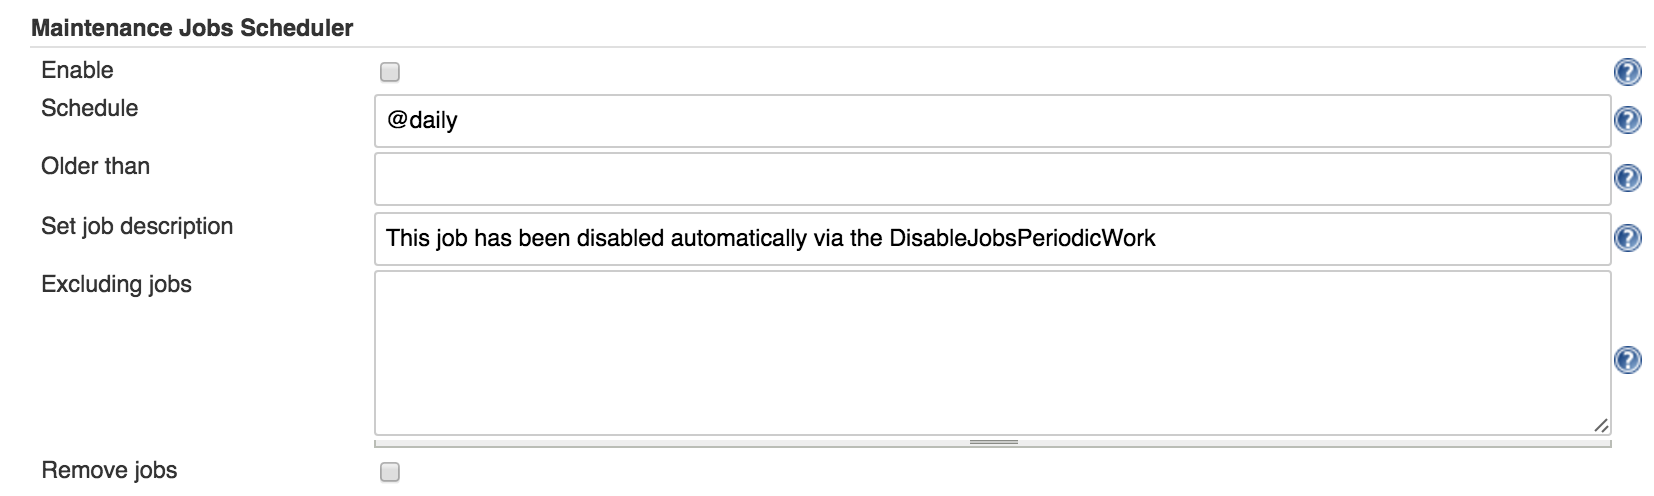
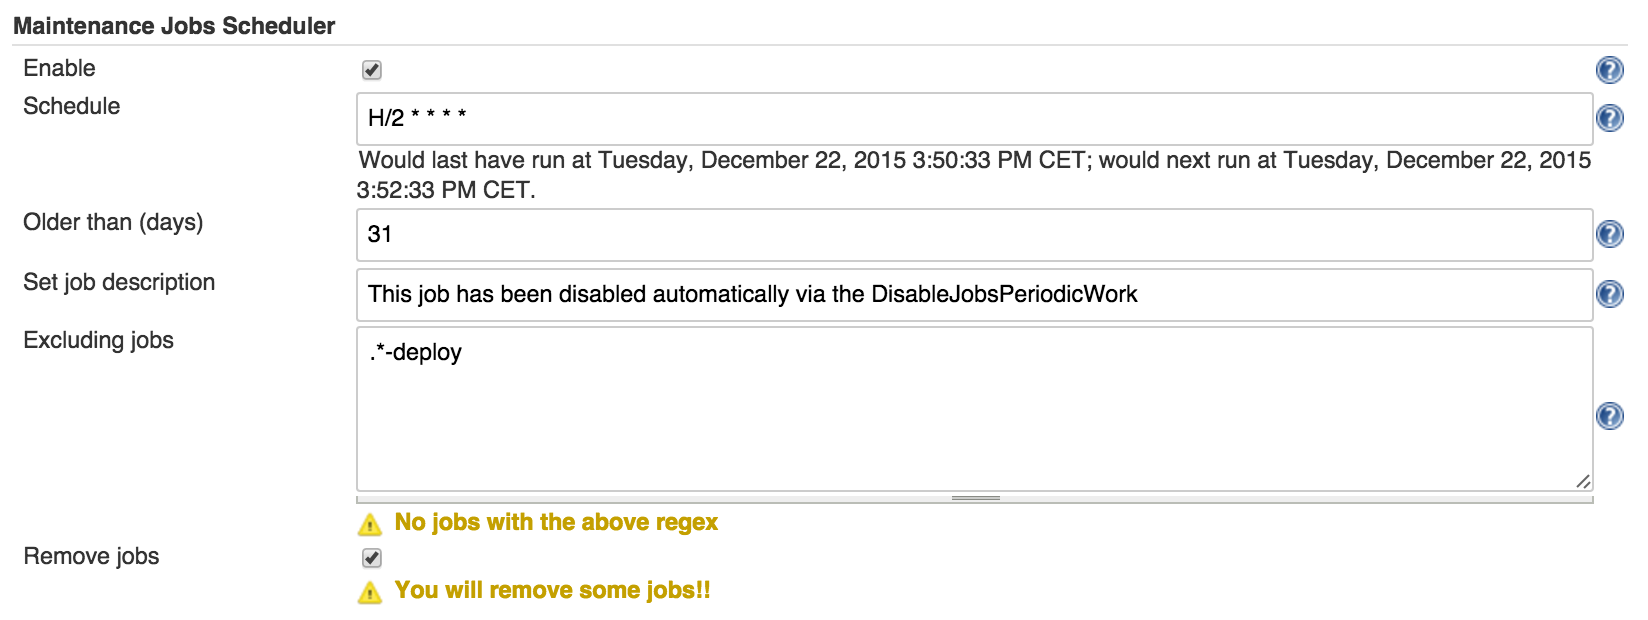
Added some screenshots for the job status

diff --git a/README.md b/README.md
@@ -11,6 +11,8 @@ When I started to use Jenkins, I was maintaining some Jenkins jobs manually, it 
 
 ![Global Setup](images/global-setup.png)
 
+![Job status after running this plugin](images/disabled-job.png)
+
 ## Development
 
 Start the local Jenkins instance:
